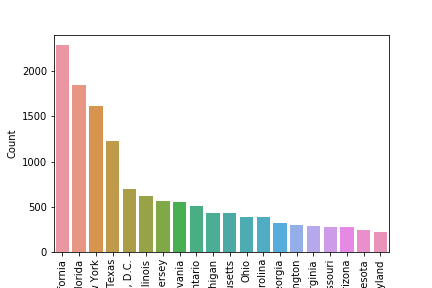
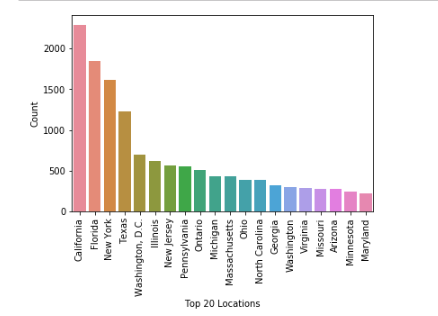
added data quality info

Changed region(s): [[0.0, 0.0, 1.0, 1.0]]

diff --git a/final.html b/final.html
@@ -137,9 +137,22 @@ circle {
 
 
     <h2>
-        Data Quality
+        About the Data Set
     </h2>
-
+    In the end, we ultimately had 33,480 tweets to work with, of which about a third (13,231) were unique. This means that around two-thirds of our dataset are retweets. 
+    <img src="images/eda_num_tweets.png " alt="Marco Rubio in CNN Townhall" align="middle" width = "600">
+    <br>
+    We agonized over whether or not to include retweets in our queries (and, ultimately, our analysis). On the one hand, it is redundant data - on the other hand, retweets reflect which tweets and sentiments the most traction and were the most publicized. We decided to include the retweets, but the reader should note the "bias" this introduces into our sample.
+    We also noticed that there are some data quality issues.  Twitter has recuently switched to a 240 character limit, but their enterprise API endpoint currently only gives us the first 140 characters of the tweet text (the old limit). This means that tweets longer than 140 characters are cut off, as shown below:
+    <img src="images/eda_sample_tweet_texts.png" alt="Marco Rubio in CNN Townhall" align="middle" width = "900">
+    <br>
+    For our geographic analysis, we had access to the longitude and latitude coordinates for 19,892 of these tweets.
+    <img src="images/eda_has_location_data.png" alt="Marco Rubio in CNN Townhall" align="middle" width = "600">
+    <br>
+    Of course, it was important for us to establish whether or not these data were missing at random. We performed a chi-squared test and found that there was no significant differences between the population densities of these cities and whether or not their coordinates were included in our dataset. Here are the top 20 cities in our dataset:
+    <img src="images/eda_top_20_locations.png" alt="Marco Rubio in CNN Townhall" align="middle" width = "600">
+    <br>
+    There were 183 unique cities in our dataset overall.
     <h2>
         Analysis Overview
     </h2>
